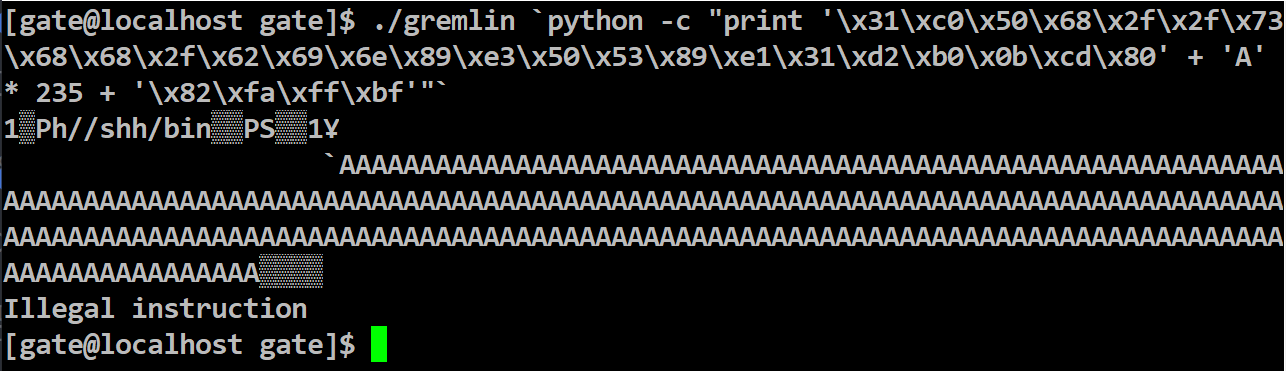
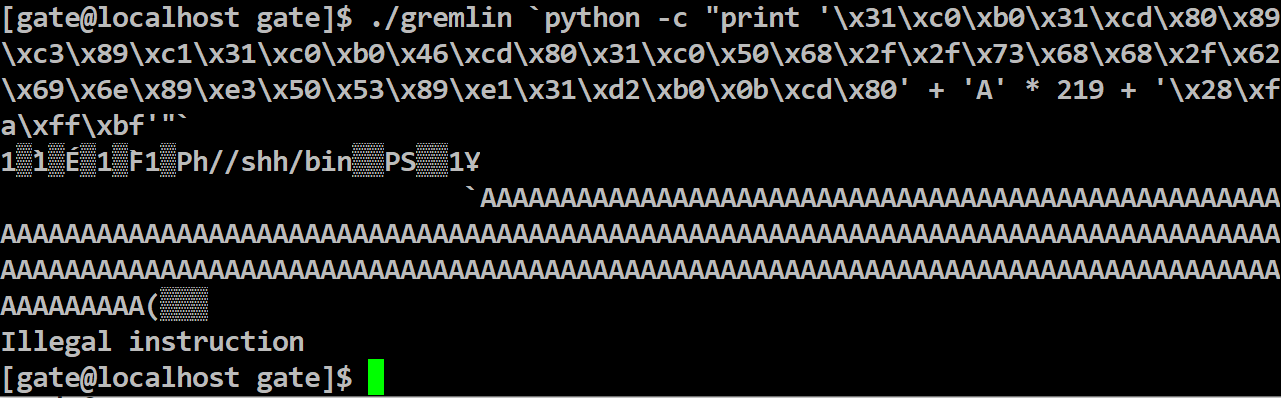
LOB level1

diff --git a/_posts/LOB/2019-09-29-LOB-level1(gate).md b/_posts/LOB/2019-09-29-LOB-level1(gate).md
@@ -47,7 +47,7 @@ int main(int argc, char *argv[])
 ### 소스분석  
 1. argc가 2보다 작다면 "ergv error"을 출력하고 프로그램을 종료한다.  
 **argc란? - 파라미터의 개수를 의미한다. 즉 main에 최소 2개이상의 인자를 전달하여야 한다.**  
-main에 전달받은 인자 argv[1](argv[0]은 파일명)을 buffer에 복사하여 출력하는 소스  
+2. main에 전달받은 인자 argv[1](argv[0]은 파일명)을 buffer에 복사하여 출력하는 소스  
 **strcpy함수는 복사할 데이터의 크기제한이 없기 때문에 argv[1]이 256Byte보다 크다면 buffer-overflow가 발생하는 취약점이 있다.**  
 
 ### Solution  
@@ -55,10 +55,11 @@ main에 전달받은 인자 argv[1](argv[0]은 파일명)을 buffer에 복사하
 what is shellcode? - 주로 기계어 코드로 이루어진 소프트웨어 취약점을 공격하기 위한 코드.  
 
 #### level1에서 사용한 쉘코드  
-**\x31\xc0\x50\x68\x2f\x2f\x73\x68\x68\x2f\x62\x69\x6e\x89\xe3\x50\x53\x89\xe1\x31\xd2\xb0\x0b\xcd\x80"**  
-이 25Byte 쉘코드는 /bin/bash를 실행시키도록 하는 코드이다.  
+**\x31\xc0\xb0\x31\xcd\x80\x89\xc3\x89\xc1\x31\xc0\xb0\x46\xcd\x80\x31\xc0\x50\x68\x2f\x2f\x73\x68\x68\x2f\x62\x69\x6e\x89\xe3\x50\x53\x89\xe1\x31\xd2\xb0\x0b\xcd\x80**  
+이 41Byte 쉘코드는 /bin/bash를 실행시키도록 하는 코드이다.  
 
 **ShellCode를 이용하기 위해서는 프로그램 Stack의 구조를 알아야 한다.**  
+
 스택구조|
 ---|
 buffer(256Byte)|
@@ -67,7 +68,6 @@ ret(4Byte)|
 
 **SFP(Stack frame pointer) - 이전 함수의 EBP주소를 담고 있다.**  
 (EBP - 스택의 가장 바닥을 가리키는 포인터)  
-
 **RET(Return Address) - 함수가 종료시 return될 주소**  
 
 #### 쉘코드의 주소를 ret에 덮어씌우면 main함수가 종료되며 쉘코드를 실행시킬 것이다.  
@@ -106,6 +106,7 @@ ex) 0xbffffc11을 리틀 엔디안 방식으로 저장하면 11cfffbf가 된다.
 gdb를 이용하여 디버깅을 하게 되면 한번 복사되어 들어가기 때문에 실제 프로세스 주소와 차이가 있다.  
 
 {% highlight C linenos %}  
+#include <stdio.h>
 
 int main(int argc, char *argv[])
 {
